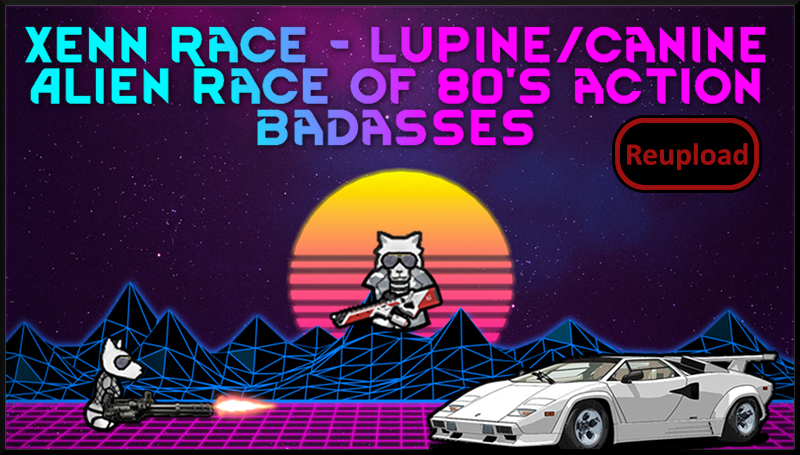
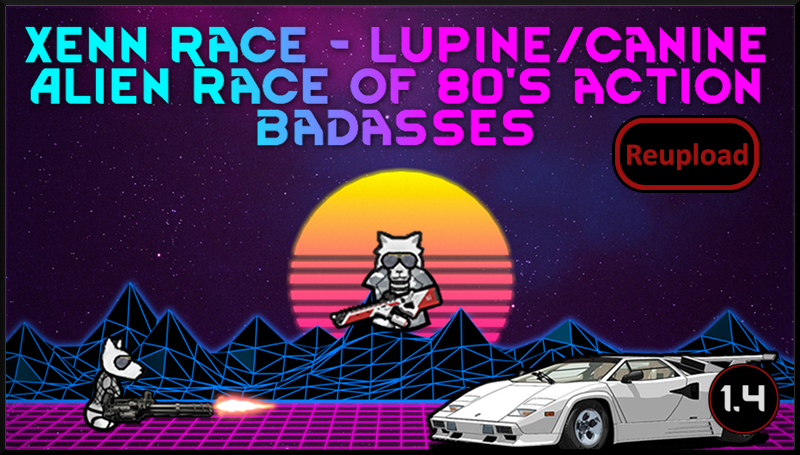
Last update, added end-of-life message

Changed region(s): [[0.875, 0.8, 1.0, 0.9538]]

diff --git a/README.md b/README.md
@@ -5,7 +5,7 @@
 Update of Xens mod
 https://steamcommunity.com/sharedfiles/filedetails/?id=2018390248
 
-![Image](https://i.imgur.com/pufA0kM.png)
+![Image](https://i.imgur.com/KFjAmff.png)
 
 	
 ![Image](https://i.imgur.com/Z4GOv8H.png)
@@ -20,12 +20,13 @@ https://steamcommunity.com/sharedfiles/filedetails/?id=2018390248
 
 -  See if the the error persists if you just have this mod and its requirements active.
 -  If not, try adding your other mods until it happens again.
--  Post your error-log using https://steamcommunity.com/workshop/filedetails/?id=818773962]HugsLib and command Ctrl+F12
+-  Post your error-log using https://steamcommunity.com/workshop/filedetails/?id=818773962]HugsLib or the standalone https://steamcommunity.com/sharedfiles/filedetails/?id=2873415404]Uploader and command Ctrl+F12
 -  For best support, please use the Discord-channel for error-reporting.
 -  Do not report errors by making a discussion-thread, I get no notification of that.
 -  If you have the solution for a problem, please post it to the GitHub repository.
+-  Use https://github.com/RimSort/RimSort/releases/latest]RimSort to sort your mods
 
 
 
+https://steamcommunity.com/sharedfiles/filedetails/changelog/2266753006]![Image](https://img.shields.io/github/v/release/emipa606/XennRace?label=latest%20version&style=plastic&color=9f1111&labelColor=black)
 
-https://steamcommunity.com/sharedfiles/filedetails/changelog/2266753006]Last updated 2023-01-09
